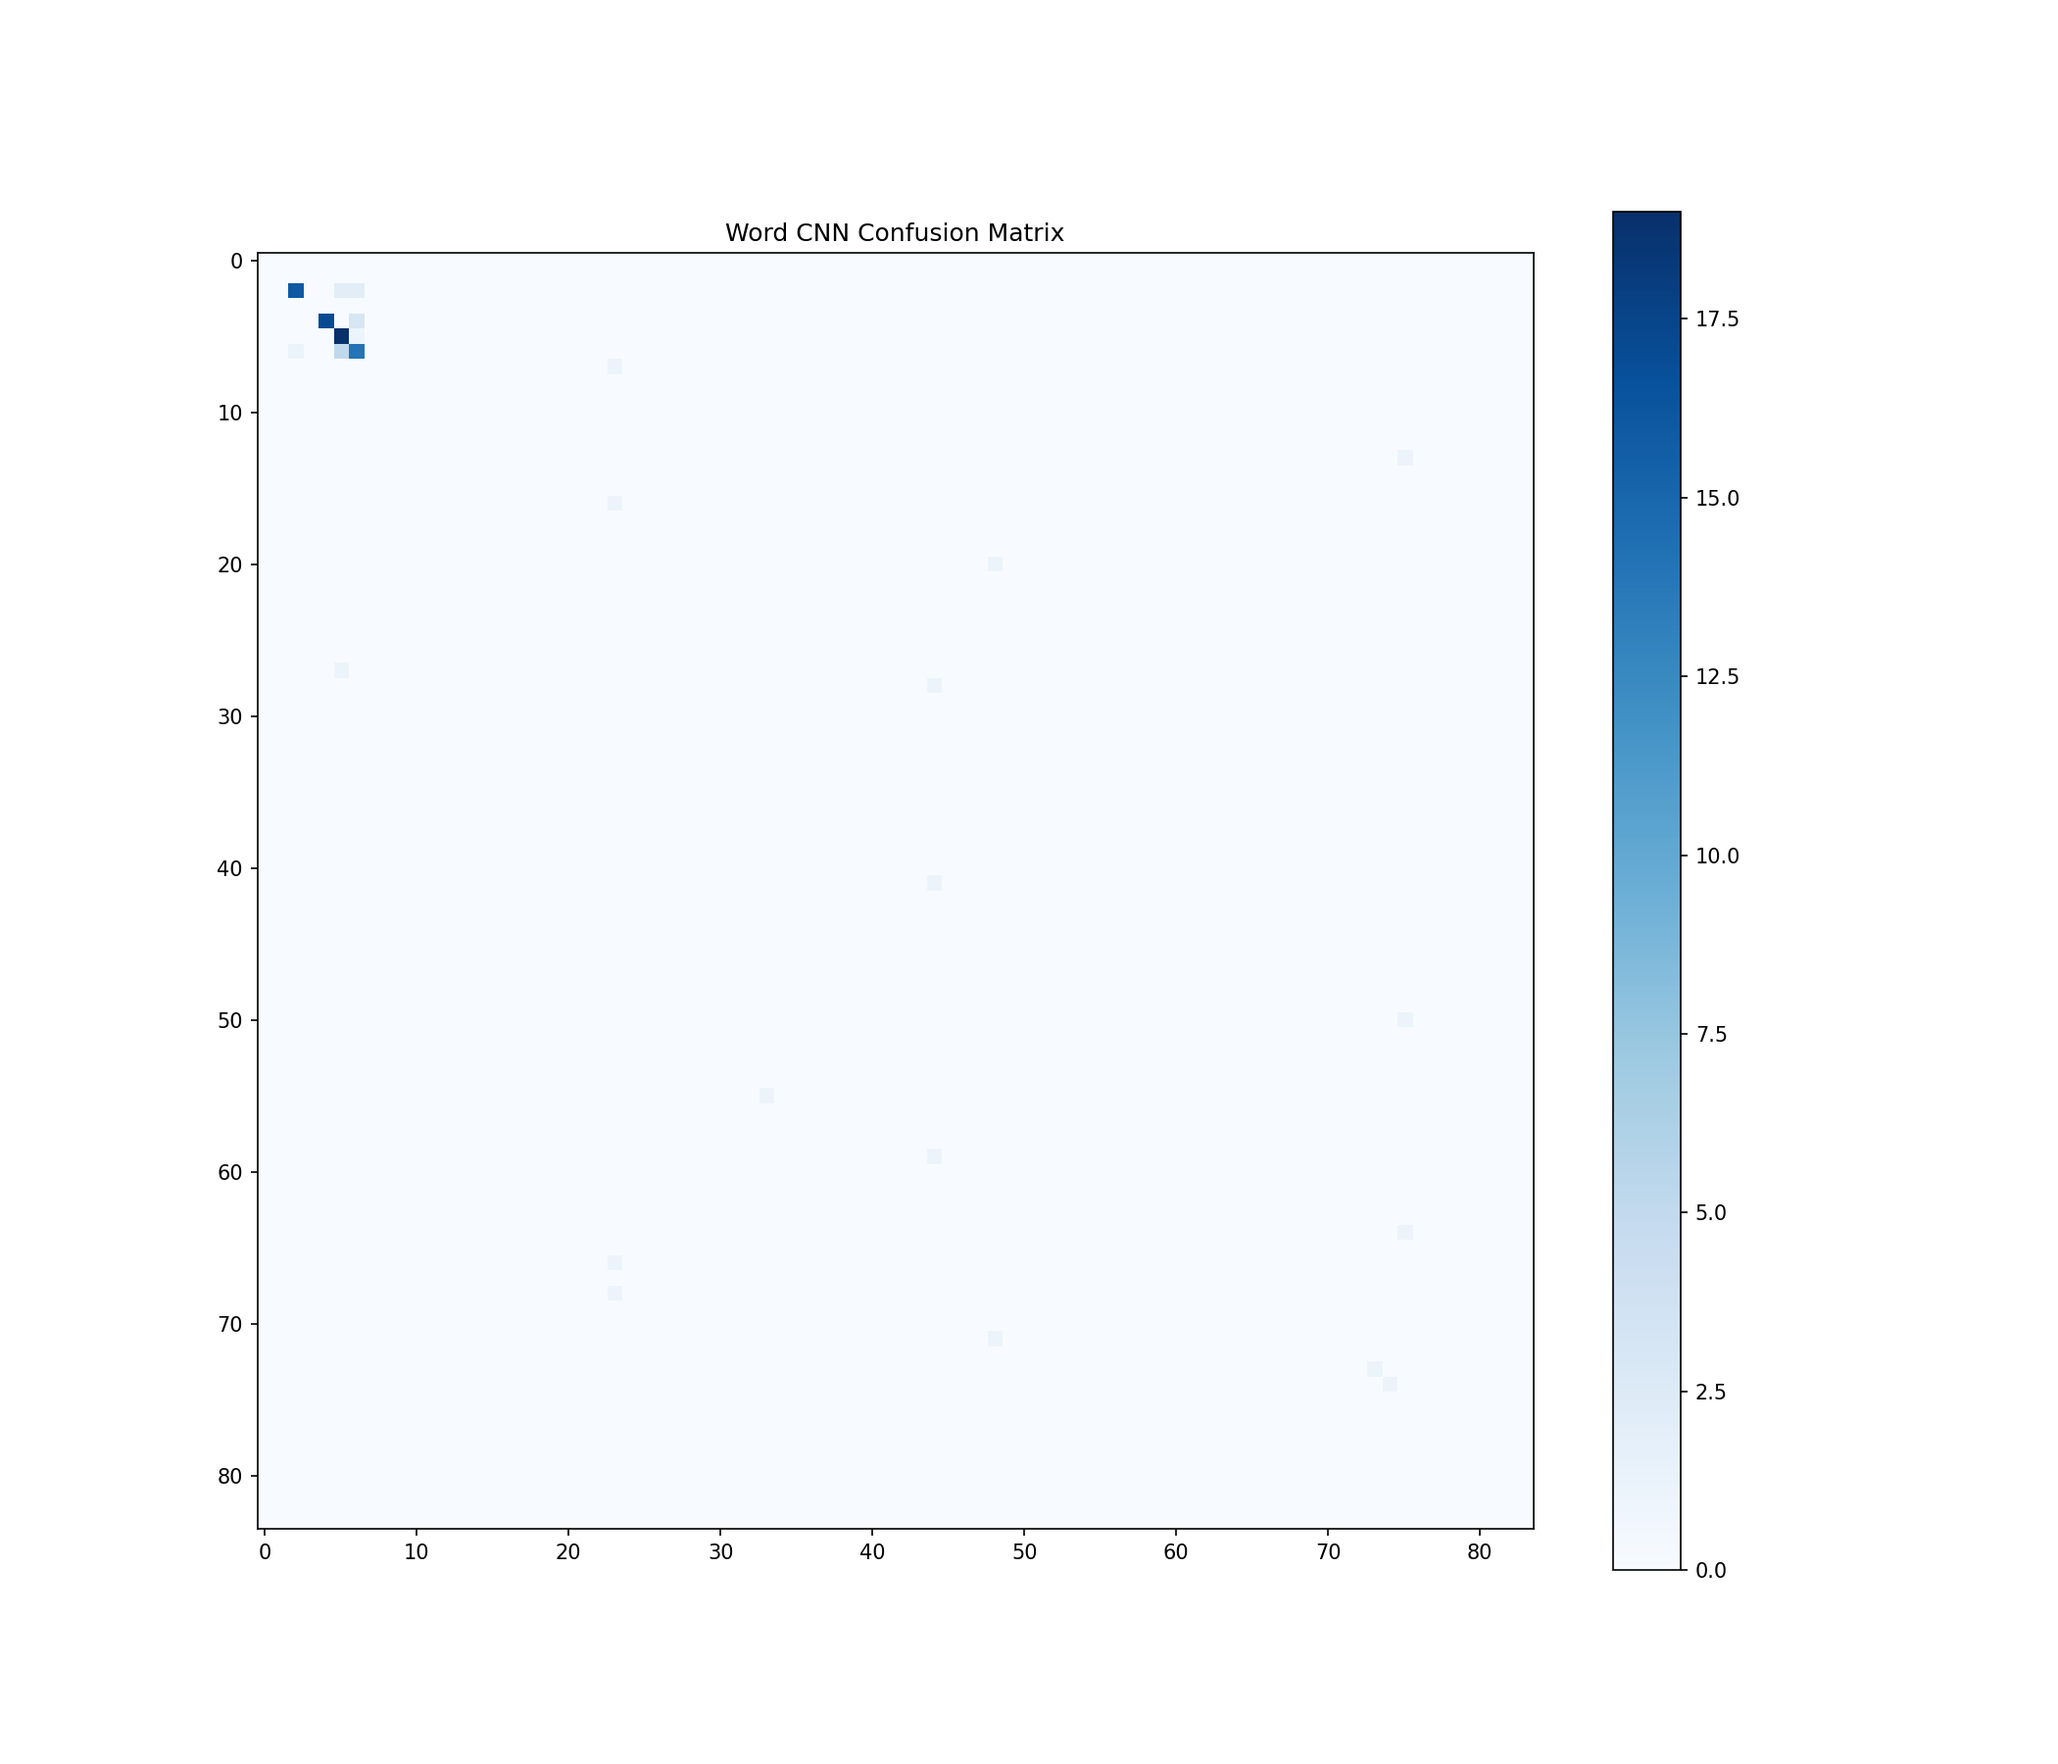
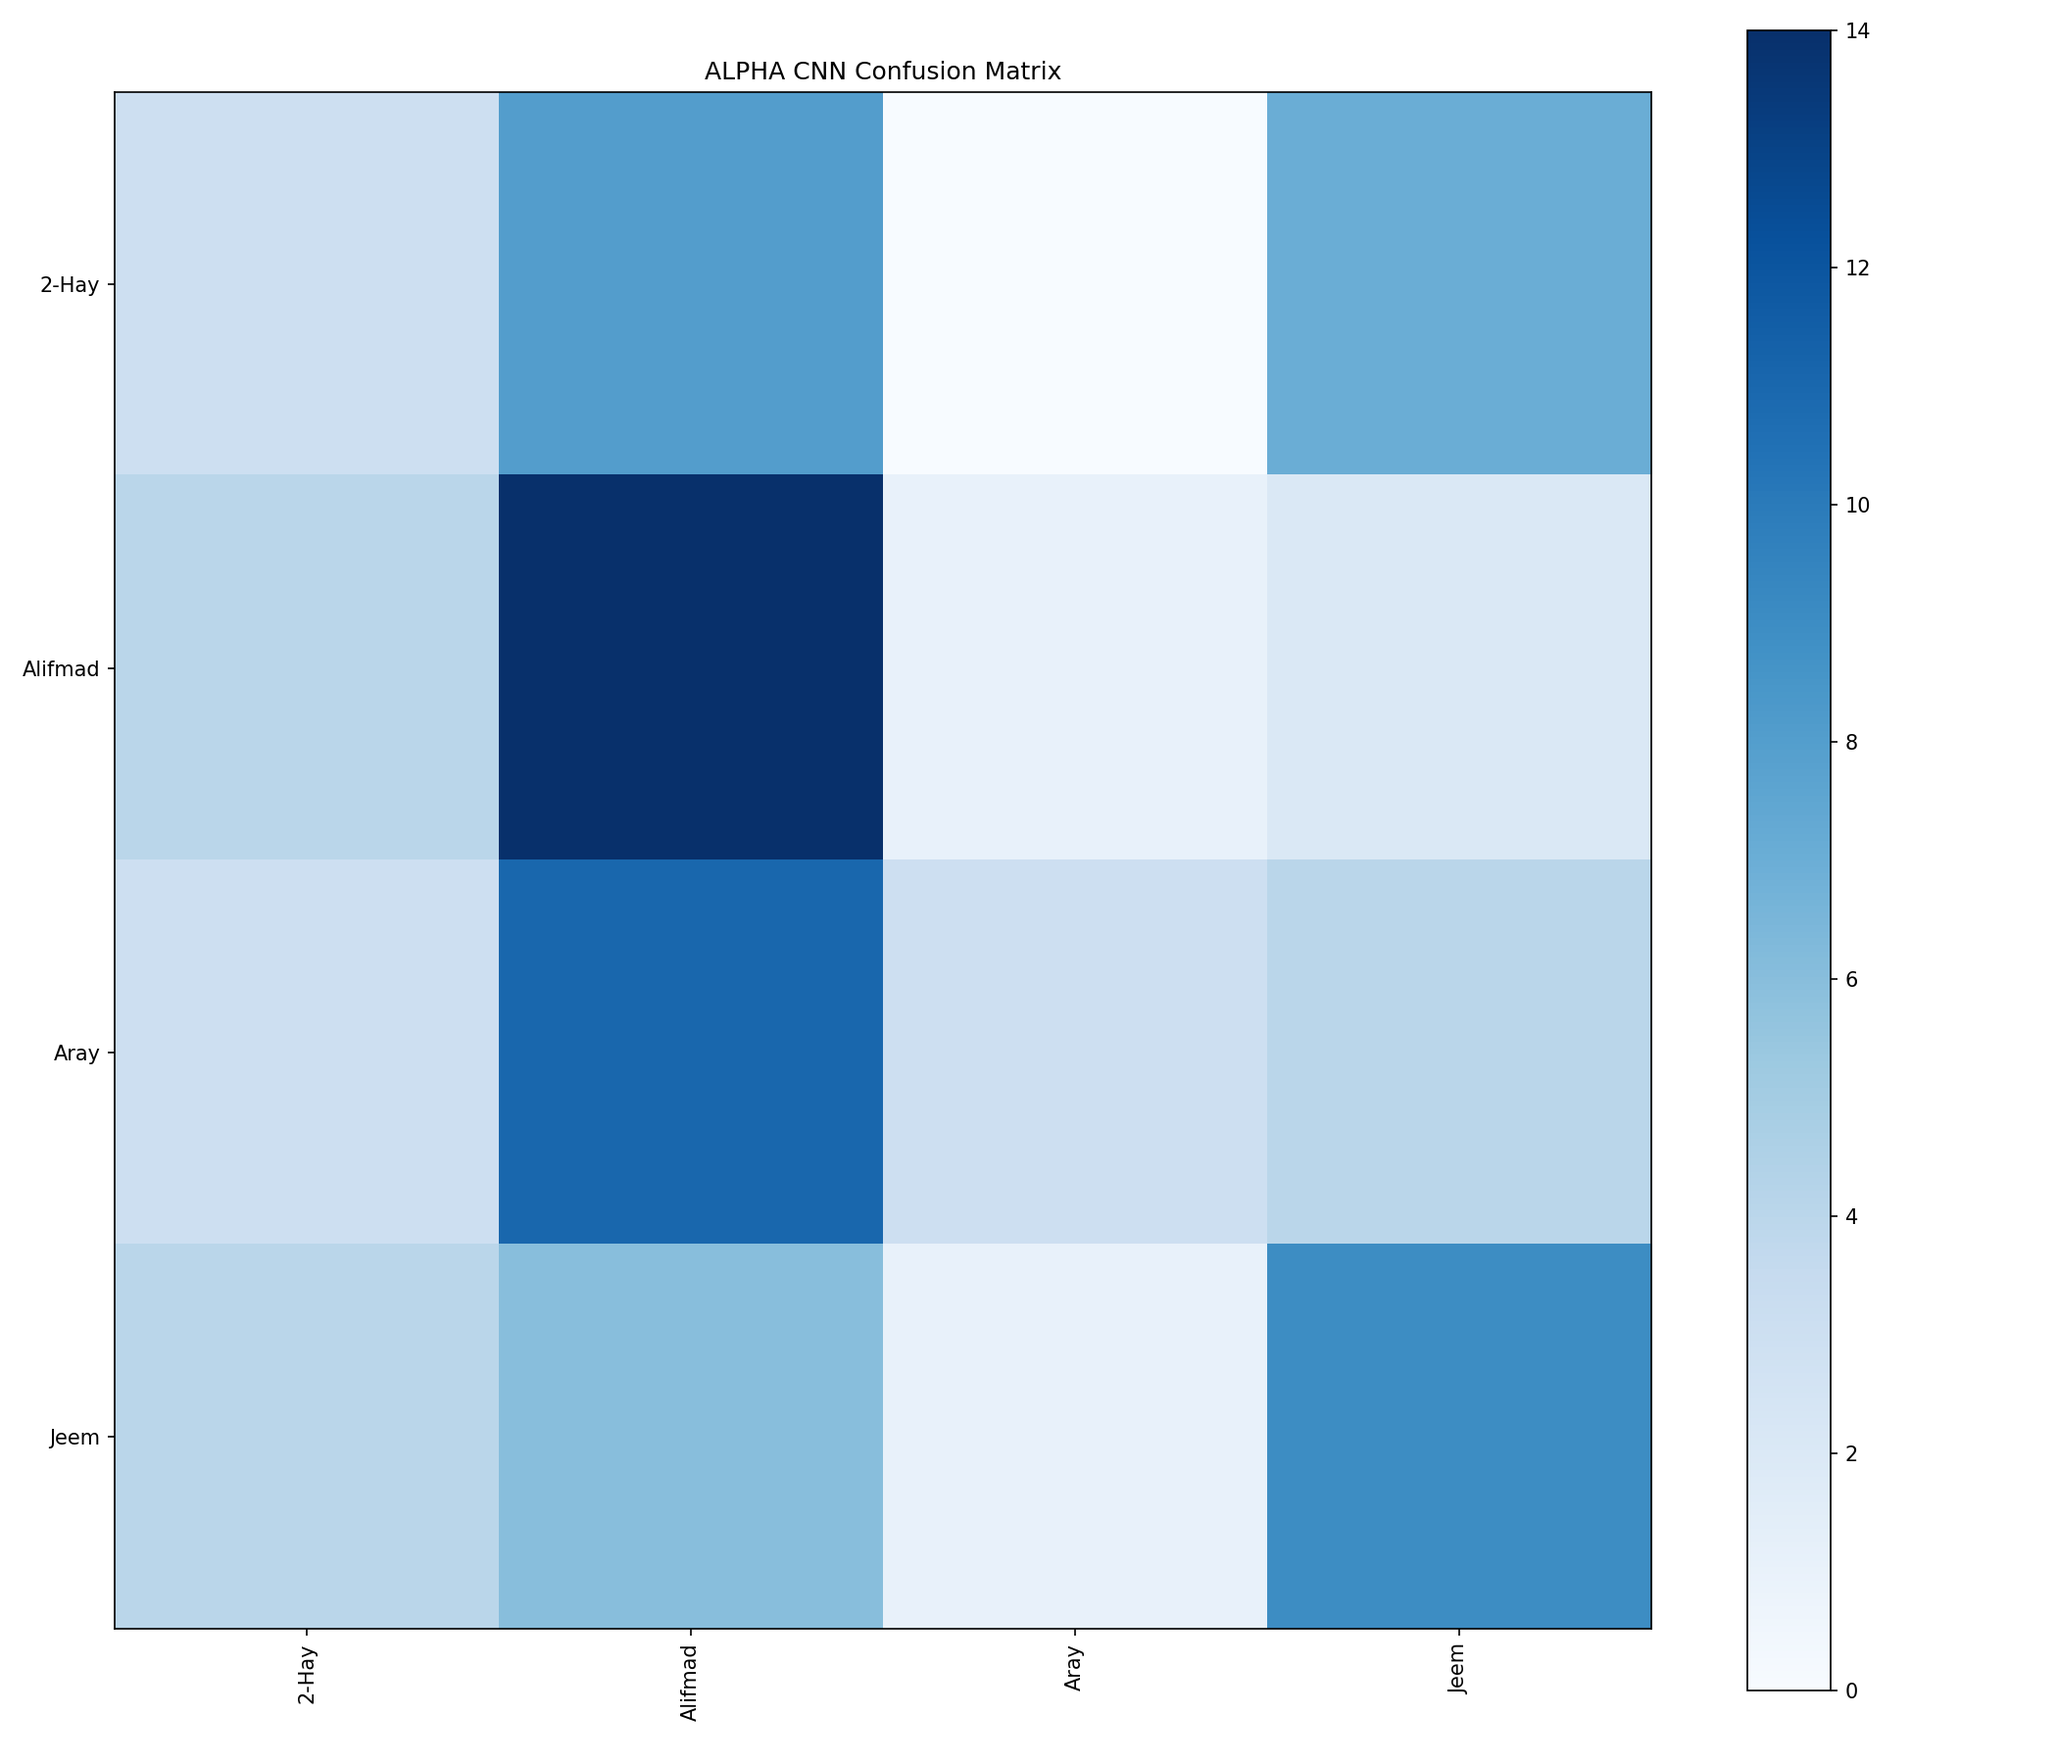
Last Push

diff --git a/src/evaluate.py b/src/evaluate.py
@@ -1,19 +1,37 @@
 # src/evaluate.py
-import numpy as np, matplotlib.pyplot as plt
+import numpy as np
+import matplotlib.pyplot as plt
+import tensorflow as tf
+import os
+
 from sklearn.metrics import classification_report, confusion_matrix
-import tensorflow as tf, os
-from config import MODEL_SAVE_DIR
 from train import load_flow_data
+from config import MODEL_SAVE_DIR
 
-model = tf.keras.models.load_model(f'{MODEL_SAVE_DIR}/word_cnn.h5')
-classes = np.load(f'{MODEL_SAVE_DIR}/label_classes.npy', allow_pickle=True)
+TASK = "alpha"   # change to "word" if needed
+from config import FLOW_OUTPUT
 
-X_test, y_test = load_flow_data('test')
+# Load model + correct label classes
+model_path = os.path.join(MODEL_SAVE_DIR, f"{TASK}_cnn.h5")
+classes_path = os.path.join(MODEL_SAVE_DIR, f"{TASK}_label_classes.npy")
+
+model = tf.keras.models.load_model(model_path)
+classes = np.load(classes_path, allow_pickle=True)
+
+# Load test data
+X_test, y_test = load_flow_data(os.path.join(FLOW_OUTPUT, TASK, "test"))
+
+
+# Encode true labels using same class order as training
+class_to_idx = {c: i for i, c in enumerate(classes)}
+y_true = np.array([class_to_idx[l] for l in y_test])
+
+# Predictions
 y_pred = np.argmax(model.predict(X_test), axis=1)
-y_true = [list(classes).index(l) for l in y_test]
 
 labels = list(range(len(classes)))
 
+# Report
 print(classification_report(
     y_true,
     y_pred,
@@ -22,11 +40,19 @@ print(classification_report(
     zero_division=0
 ))
 
-os.makedirs('outputs', exist_ok=True)
+# Confusion matrix
+os.makedirs("outputs", exist_ok=True)
+
 cm = confusion_matrix(y_true, y_pred, labels=labels)
-plt.figure(figsize=(14,12))
-plt.imshow(cm, cmap='Blues')
+
+plt.figure(figsize=(14, 12))
+plt.imshow(cm, cmap="Blues")
 plt.colorbar()
-plt.title('Word CNN Confusion Matrix')
-plt.savefig('outputs/confusion_matrix.png', dpi=150)
-print('Confusion matrix saved to outputs/')
+plt.title(f"{TASK.upper()} CNN Confusion Matrix")
+plt.xticks(range(len(classes)), classes, rotation=90)
+plt.yticks(range(len(classes)), classes)
+
+plt.tight_layout()
+plt.savefig("outputs/confusion_matrix.png", dpi=150)
+
+print("Confusion matrix saved to outputs/confusion_matrix.png")
